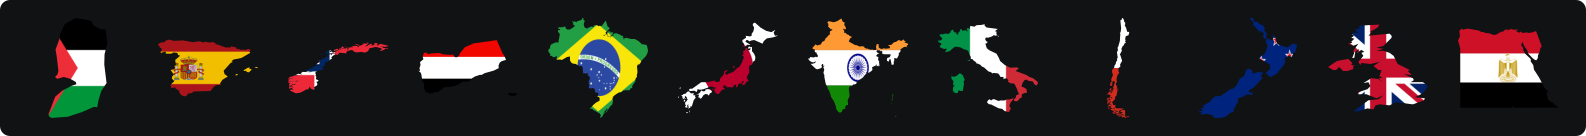
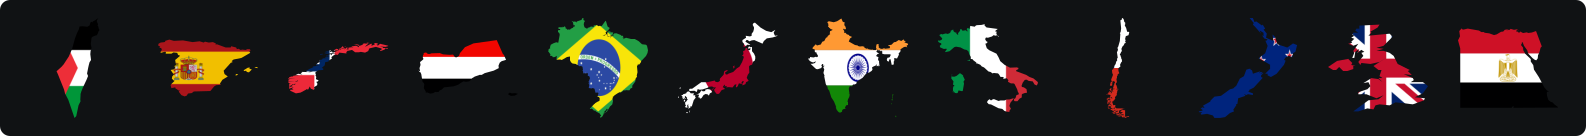
Draw IL and PS as one outline, the whole territory
Israel, the West Bank and Gaza laid together as a single landmass — the
whole territory between the river and the sea — filed under both codes
and poured full of the Palestinian flag. Natural Earth carries that
ground as three features and so made three marks out of it: a country
with a bite out of its middle, a sliver, and a speck the crop dropped.

The table is SHAPE_FROM in scripts/build-shapes.mjs, the counterpart to
the flag substitution already in FLAG_FROM. It is applied to the finished
sheet, so it composes with GEOGLYPH_POV and never brings back a code a
viewpoint drops. The union is the rings laid together rather than a true
polygon union: they are adjacent, not overlapping, so under nonzero fill
— which is what clip-path: path() uses too — the shared borders do not
draw and no clipping library is needed.

A combined shape is also simplified at half a grid cell rather than 1.2.
The Green Line appears in two rings, each Douglas–Peucker'd on its own,
and at the looser tolerance they drift apart by more than a cell: the gap
outlives grid snapping as a pinhole in the middle of the country, open at
any size over about 128px. Flood-filling the background of a raster at
2133px and 10667px tall now finds no enclosed pixels. Every glyph that is
not combined is byte-identical.

Changed region(s): [[0.0309, 0.3235, 0.0927, 0.8824]]

diff --git a/README.md b/README.md
@@ -20,6 +20,10 @@ toSvg(shape, { flag, size: '1.5em' });
 - **Public-domain geometry**, MIT code, no runtime dependencies.
 - **One module per country per asset**, so a page naming three of them ships three.
 
+`IL` and `PS` are both drawn as the whole territory between the river and the sea, and
+both are poured full of the Palestinian flag. That is the one place the data departs from
+its sources on purpose: [where the data takes a side](#where-the-data-takes-a-side).
+
 Flag sets already exist: use [flag-icons](https://github.com/lipis/flag-icons), which is
 where these come from. Country paths exist too, but in a shared world-map coordinate space
 for drawing a map. These are framed one country at a time instead, to be set at the size
@@ -213,13 +217,31 @@ tier, 1.5 MB of it, which nobody downloads until they ask for a country.
 - **A map.** Every shape is framed on its own. They share no coordinate space and cannot
   be assembled back into a world. Use TopoJSON for that.
 - **Disputed borders, resolved.** The geometry is Natural Earth's lines and its ISO codes,
-  including the ones it marks disputed, and none of it is redrawn here. Which disputes get
-  resolved for you is a build setting: see [Point of view](#point-of-view).
+  including the ones it marks disputed, and none of it is redrawn here — bar one place,
+  below. Which of the rest get resolved for you is a build setting: see
+  [Point of view](#point-of-view).
 - **Recognisable archipelagos.** Tokelau, the Marshall Islands and Tuvalu are scattered
   specks at any honest scale, and a glyph of them is scattered specks. No crop fixes a
   country made of atolls.
 
-The package takes sides on disputed territories when sufficient evidence is available.
+## Where the data takes a side
+
+Everywhere else the geometry is Natural Earth's lines and the flags are flag-icons' files,
+vendored and not corrected. There is one exception, in two parts, and it is a position
+rather than a fix:
+
+- **`IL` and `PS` are one outline.** Israel, the West Bank and Gaza laid together as a
+  single landmass — the whole territory between the river and the sea — and filed under
+  both codes. Natural Earth carries it as three features and so makes three marks out of
+  it: a country with a bite taken out of its middle, a sliver, and a speck the crop then
+  drops for sitting too far from the sliver to count as one landmass with it.
+- **Both are poured full of the Palestinian flag.** flag-icons files an Israeli flag under
+  `il`; this ships `ps.svg` in its place, in both tiers.
+
+Neither half is hidden anywhere it could be mistaken for a bug. `generated/shape/il.js`
+and `generated/flag/il.js` name what they were drawn from, `pnpm vendor` prints both, and
+the tables are one line each — `SHAPE_FROM` in `scripts/build-shapes.mjs` and `FLAG_FROM`
+in `scripts/build-flags.mjs` — to edit or empty if you want the sources unedited.
 
 ## Two rendering decisions
 

diff --git a/.changeset/olive-glyphs-merge.md b/.changeset/olive-glyphs-merge.md
@@ -1,0 +1,16 @@
+---
+"geoglyph": minor
+---
+
+Draw `IL` and `PS` as one outline: Israel, the West Bank and Gaza laid together as a single
+landmass, the whole territory between the river and the sea, filed under both codes and
+poured full of the Palestinian flag. Natural Earth carries that ground as three features
+and so made three marks out of it — a country with a bite out of its middle, a sliver, and
+a speck the crop dropped. The table is `SHAPE_FROM` in `scripts/build-shapes.mjs`, the
+counterpart to the flag substitution already in `FLAG_FROM`, and the README says what both
+are doing.
+
+A shape unioned out of several rings is also simplified at half a grid cell rather than
+1.2, because two copies of one shared border simplified independently drift apart and the
+gap survives grid snapping as a pinhole in the middle of the country. Only combined shapes
+are affected; every other glyph is byte-identical.
